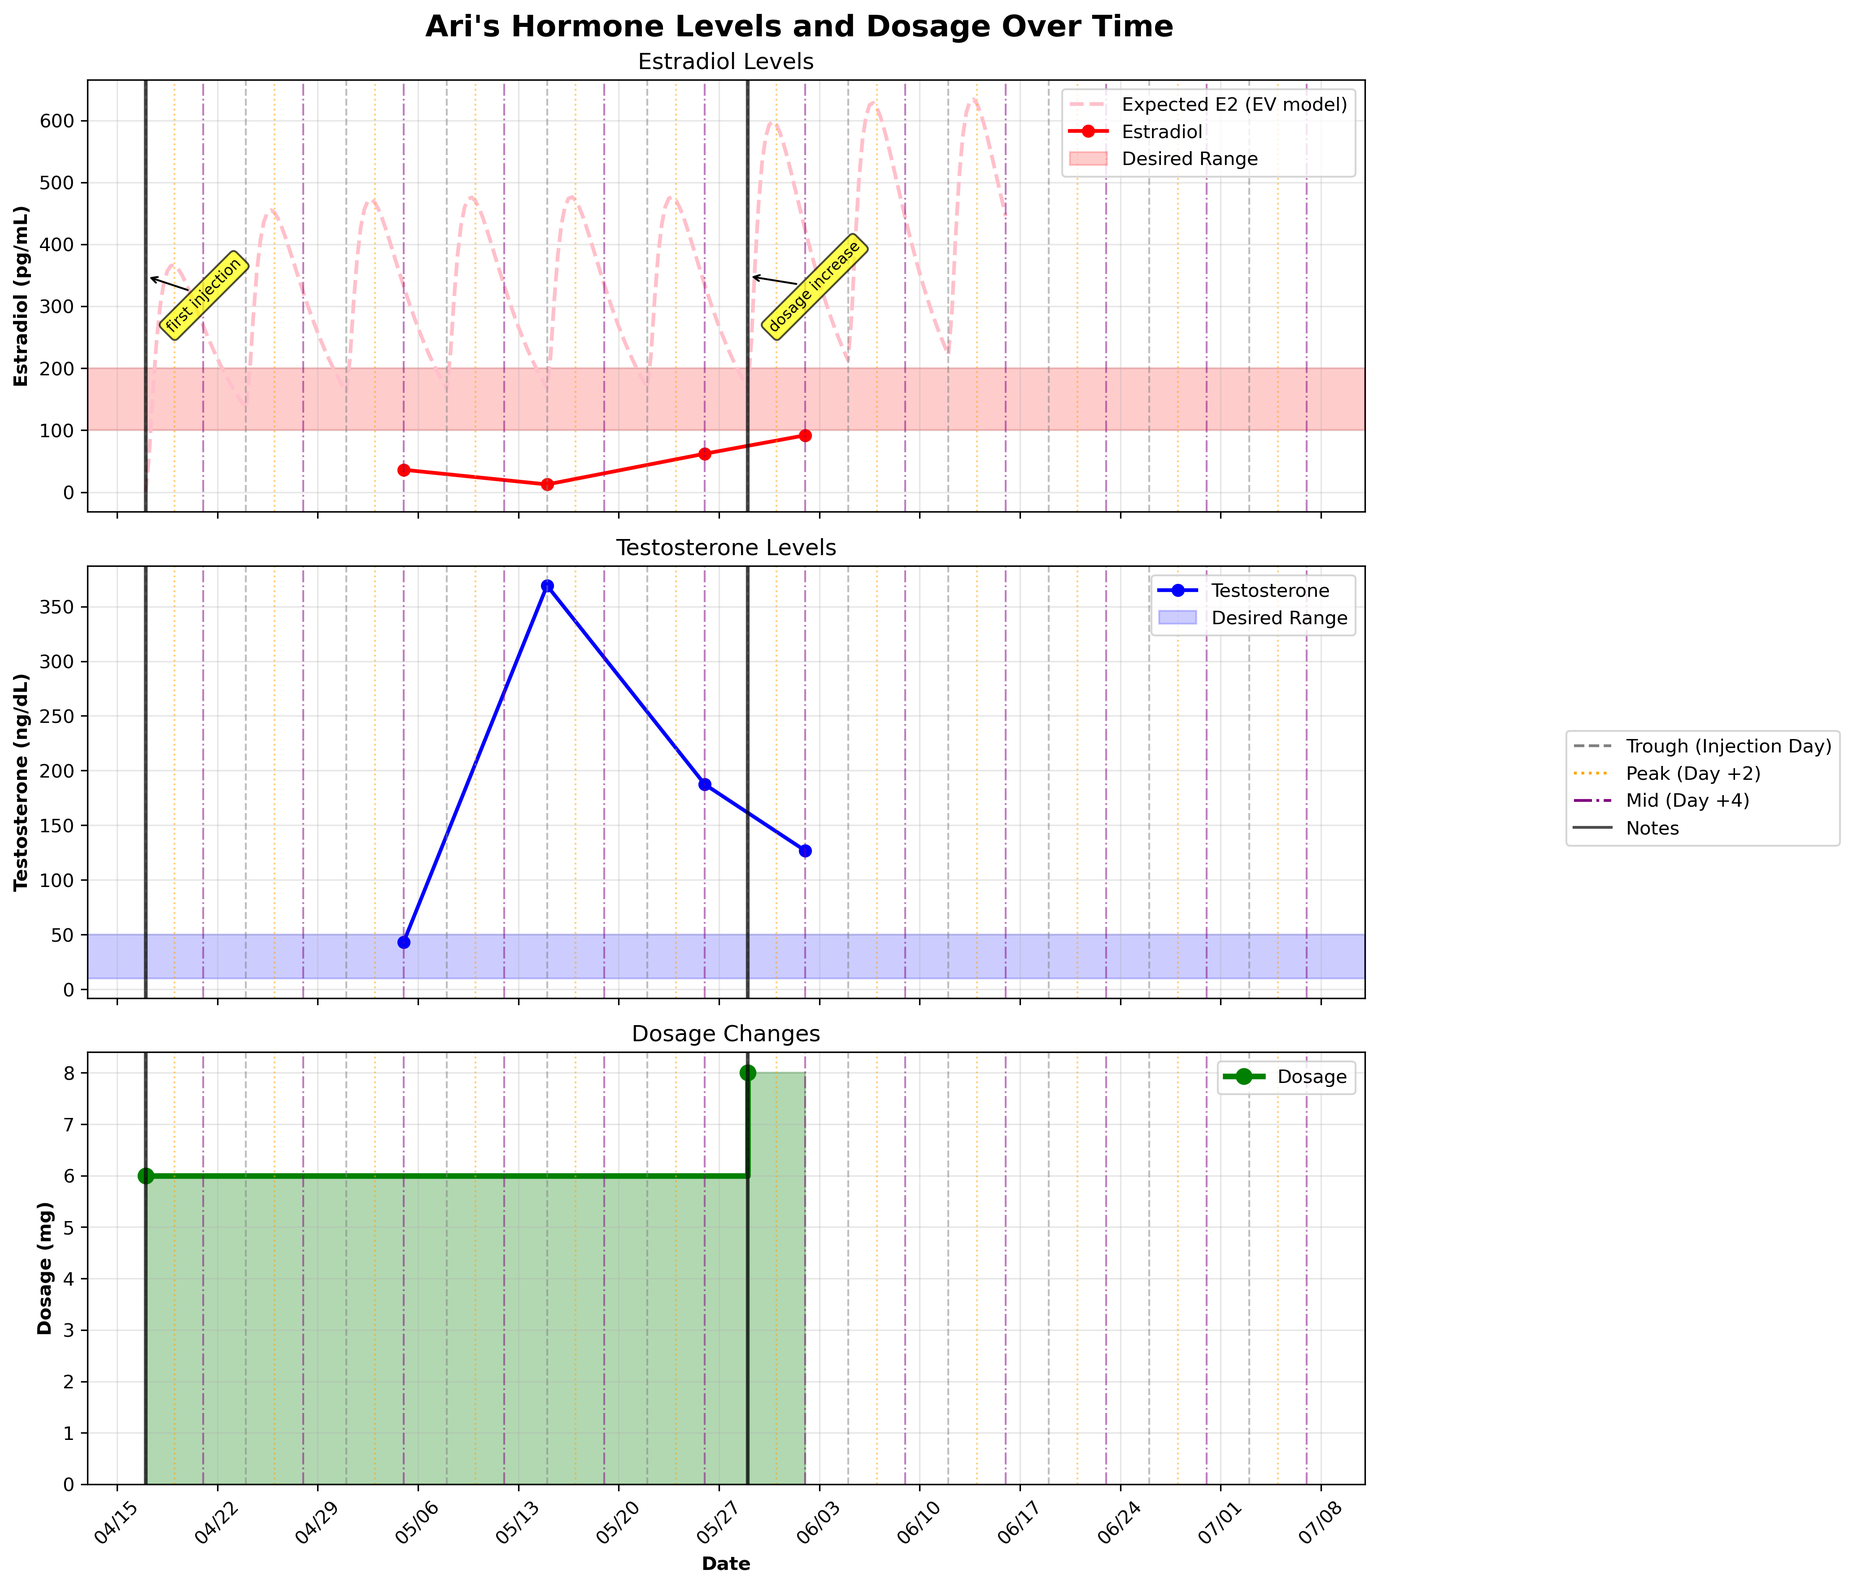
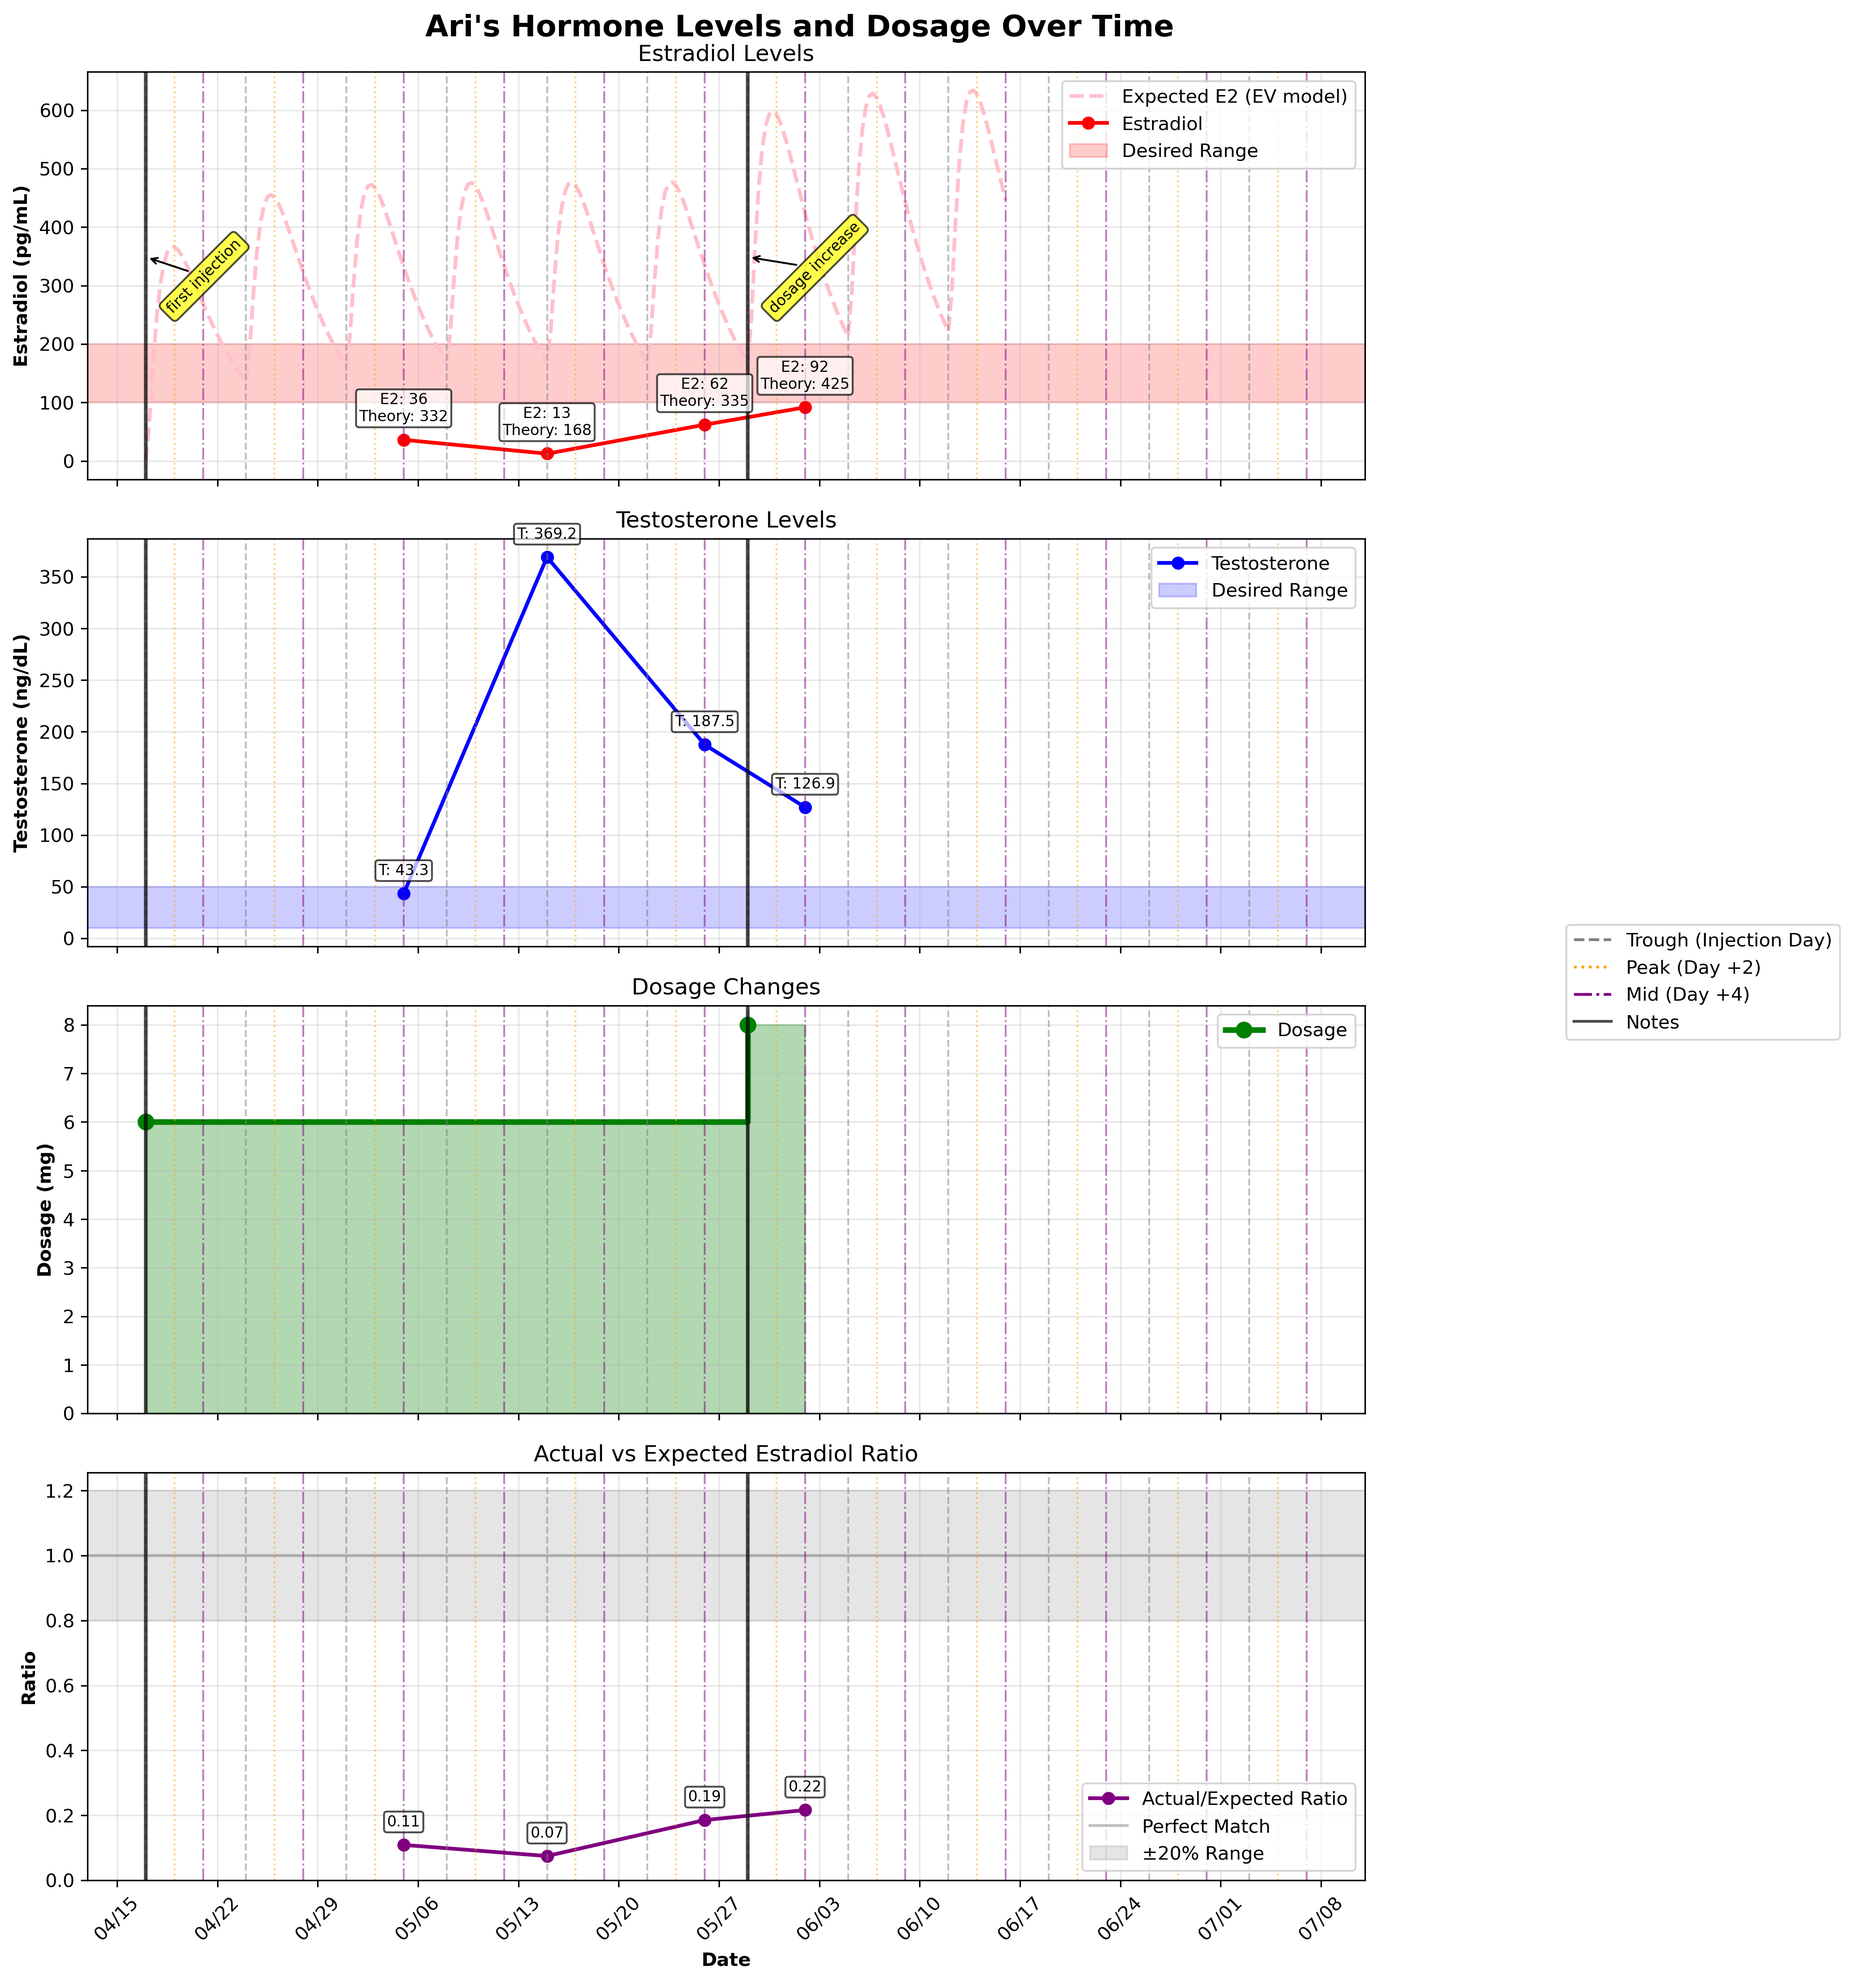
more

diff --git a/main.py b/main.py
@@ -252,14 +252,59 @@ def create_hormone_graph():
 
     expected_curve_dates, expected_curve_values = generate_ev_expected_curve(df)
 
+    # Calculate ratio of actual to expected estradiol
+    actual_to_expected_ratios = []
+    ratio_dates = []
+
     # Desired ranges (hardcoded - adjust these values as needed)
     estradiol_range = (100, 200)  # pg/mL
     testosterone_range = (10, 50)  # ng/dL
 
-    fig, (ax1, ax2, ax3) = plt.subplots(3, 1, figsize=(12, 12), sharex=True)
+    fig, (ax1, ax2, ax3, ax4) = plt.subplots(4, 1, figsize=(12, 15), sharex=True)
     fig.suptitle(
         "Ari's Hormone Levels and Dosage Over Time", fontsize=16, fontweight="bold"
     )
+
+    for _, row in df_with_data.iterrows():
+        if pd.notna(row["estradiol"]):
+            # Find expected value for this date
+            target_date = row["date"]
+            closest_idx = min(
+                range(len(expected_curve_dates)),
+                key=lambda i: abs(
+                    (expected_curve_dates[i] - target_date).total_seconds()
+                ),
+            )
+            expected_value = expected_curve_values[closest_idx]
+            ratio = row["estradiol"] / expected_value if expected_value > 0 else 0
+
+            annotation_text = (
+                f"E2: {row['estradiol']:.0f}\nTheory: {expected_value:.0f}"
+            )
+            ax1.annotate(
+                annotation_text,
+                xy=(row["date"], row["estradiol"]),
+                xytext=(0, 10),
+                textcoords="offset points",
+                ha="center",
+                fontsize=8,
+                bbox=dict(boxstyle="round,pad=0.2", facecolor="white", alpha=0.7),
+            )
+
+            actual_to_expected_ratios.append(ratio)
+            ratio_dates.append(target_date)
+
+        if pd.notna(row["testosterone"]):
+            annotation_text = f"T: {row['testosterone']:.1f}"
+            ax2.annotate(
+                annotation_text,
+                xy=(row["date"], row["testosterone"]),
+                xytext=(0, 10),
+                textcoords="offset points",
+                ha="center",
+                fontsize=8,
+                bbox=dict(boxstyle="round,pad=0.2", facecolor="white", alpha=0.7),
+            )
 
     # Plot expected estradiol curve
     if expected_curve_dates and expected_curve_values:
@@ -356,8 +401,46 @@ def create_hormone_graph():
     ax3.grid(True, alpha=0.3)
     ax3.set_ylim(bottom=0)  # Start y-axis at 0 for dosage
 
+    # Plot Actual/Expected Ratio
+    if ratio_dates and actual_to_expected_ratios:
+        ax4.plot(
+            ratio_dates,
+            actual_to_expected_ratios,
+            "o-",
+            color="purple",
+            linewidth=2,
+            markersize=6,
+            label="Actual/Expected Ratio",
+        )
+
+        # Add horizontal line at ratio = 1.0 (perfect match)
+        ax4.axhline(
+            y=1.0, color="gray", linestyle="-", alpha=0.5, label="Perfect Match"
+        )
+
+        # Add shaded region for reasonable variation (e.g., ±20%)
+        ax4.axhspan(0.8, 1.2, alpha=0.2, color="gray", label="±20% Range")
+
+        # Add ratio values as text annotations
+        for date, ratio in zip(ratio_dates, actual_to_expected_ratios):
+            ax4.annotate(
+                f"{ratio:.2f}",
+                xy=(date, ratio),
+                xytext=(0, 10),
+                textcoords="offset points",
+                ha="center",
+                fontsize=8,
+                bbox=dict(boxstyle="round,pad=0.2", facecolor="white", alpha=0.7),
+            )
+
+    ax4.set_ylabel("Ratio", fontweight="bold")
+    ax4.set_title("Actual vs Expected Estradiol Ratio")
+    ax4.legend()
+    ax4.grid(True, alpha=0.3)
+    ax4.set_ylim(bottom=0)  # Start y-axis at 0
+
     # Add injection schedule markers to all plots
-    for ax in [ax1, ax2, ax3]:
+    for ax in [ax1, ax2, ax3, ax4]:
         # Trough markers (injection days)
         for date in injection_schedule["trough"]:
             ax.axvline(x=date, color="gray", linestyle="--", alpha=0.5, linewidth=1)
@@ -376,12 +459,11 @@ def create_hormone_graph():
         note_text = row["notes"]
 
         # Add vertical line for notes
-        for ax in [ax1, ax2, ax3]:
+        for ax in [ax1, ax2, ax3, ax4]:
             ax.axvline(
                 x=note_date, color="black", linestyle="-", alpha=0.7, linewidth=2
             )
 
-        # Add note text to the top plot
         ax1.annotate(
             note_text,
             xy=(note_date, (ax1.get_ylim()[1] - ax1.get_ylim()[0]) / 2),
@@ -405,16 +487,15 @@ def create_hormone_graph():
     fig.legend(handles=legend_elements, loc="center right", bbox_to_anchor=(1.15, 0.5))
 
     # Format x-axis
-    ax3.set_xlabel("Date", fontweight="bold")
-    ax3.xaxis.set_major_formatter(mdates.DateFormatter("%m/%d"))
-    ax3.xaxis.set_major_locator(mdates.WeekdayLocator())
+    ax4.set_xlabel("Date", fontweight="bold")
+    ax4.xaxis.set_major_formatter(mdates.DateFormatter("%m/%d"))
+    ax4.xaxis.set_major_locator(mdates.WeekdayLocator())
     plt.xticks(rotation=45)
 
-    # Adjust layout
     plt.tight_layout()
     plt.subplots_adjust(right=0.85)
 
-    return fig, (ax1, ax2, ax3)
+    return fig, (ax1, ax2, ax3, ax4)
 
 
 # Create and display the graph
